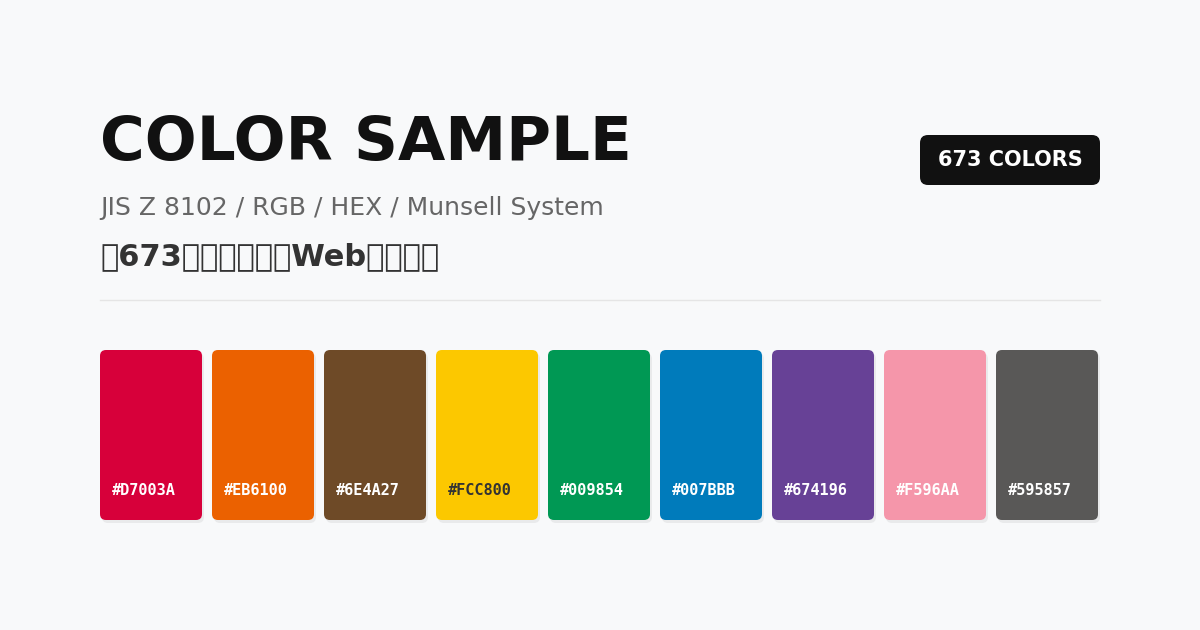
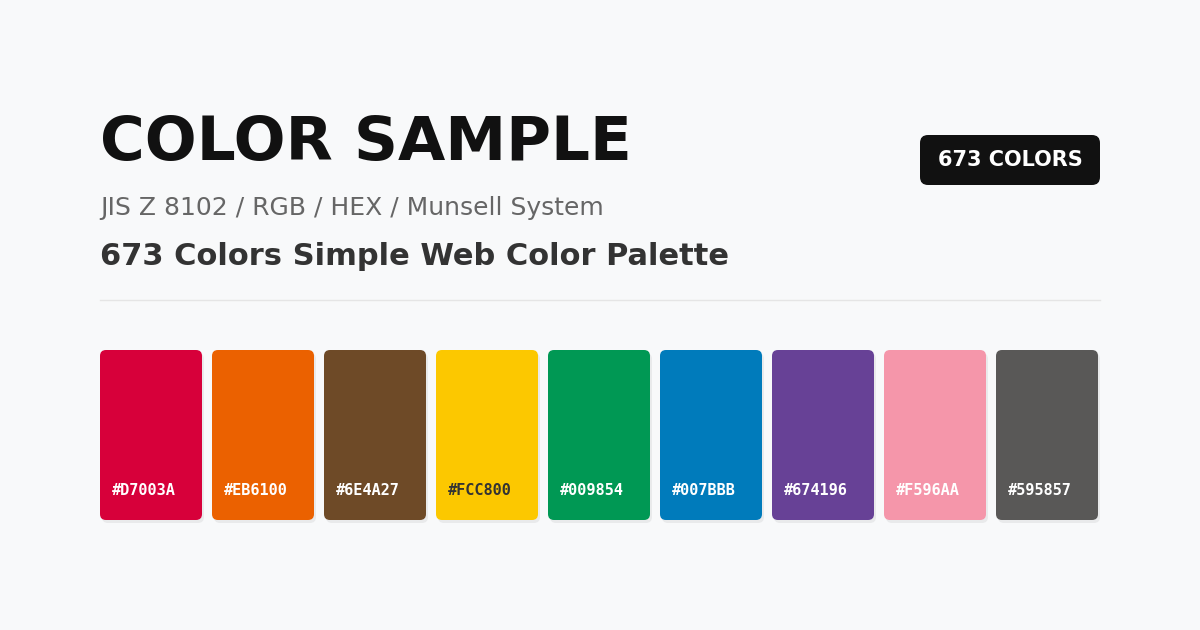
Add files via upload

Changed region(s): [[0.0617, 0.3619, 0.6167, 0.4524]]

diff --git a/script.js b/script.js
@@ -53,7 +53,6 @@ function parseCSV(text) {
     const name = cols[3] || "";
     const rawHex = cols[4] || "FFFFFF";
     const hex = rawHex.startsWith('#') ? rawHex : `#${rawHex}`;
-    const munsell = cols[5] || "-";
 
     const textColor = getContrastTextColor(hex);
 
@@ -62,7 +61,6 @@ function parseCSV(text) {
       kanaName,
       name,
       hex,
-      munsell,
       textColor
     };
 
@@ -169,7 +167,8 @@ function renderListView(colorList) {
 }
 
 /**
- * 【修正】「RGB：」の直後の余計なスペースを除去 (例: RGB：#DF548F)
+ * カラーサンプル（詳細画面）の表示
+ * ※マンセル値を削除し、RGBのみを表示
  */
 function showDetailView(globalIdx) {
   globalCurrentIndex = globalIdx;
@@ -201,7 +200,6 @@ function showDetailView(globalIdx) {
       <div class="info-rgb-group">
         <span class="info-rgb-label">RGB：</span><span class="info-hex">${colorData.hex.toUpperCase()}</span>
       </div>
-      <div class="info-munsell">マンセル値：${colorData.munsell}</div>
     </div>
   `;
 }

diff --git a/index.html b/index.html
@@ -68,7 +68,7 @@
     </main>
 
     <!-- SEO補強用フッター説明文 -->
-    <footer style="max-width: 1200px; margin: 40px auto 20px; padding: 0 20px; font-size: 12px; color: #666666; line-height: 1.6;">
+    <footer style="display: none;">
         <p>当サイトは、JIS規格 Z 8102:2001（物体色の色名）で定義された269色の和名・洋名を含む、全673色を網羅したシンプルなWebカラーサンプル（色見本帳）です。各カラーサンプル・色見本ページでは、RGB値（16進数カラーコード）やマンセル値を一目で確認できます。Webデザイン、グラフィックデザイン、イラスト制作、配色検討の際にご活用ください。</p>
     </footer>
 
